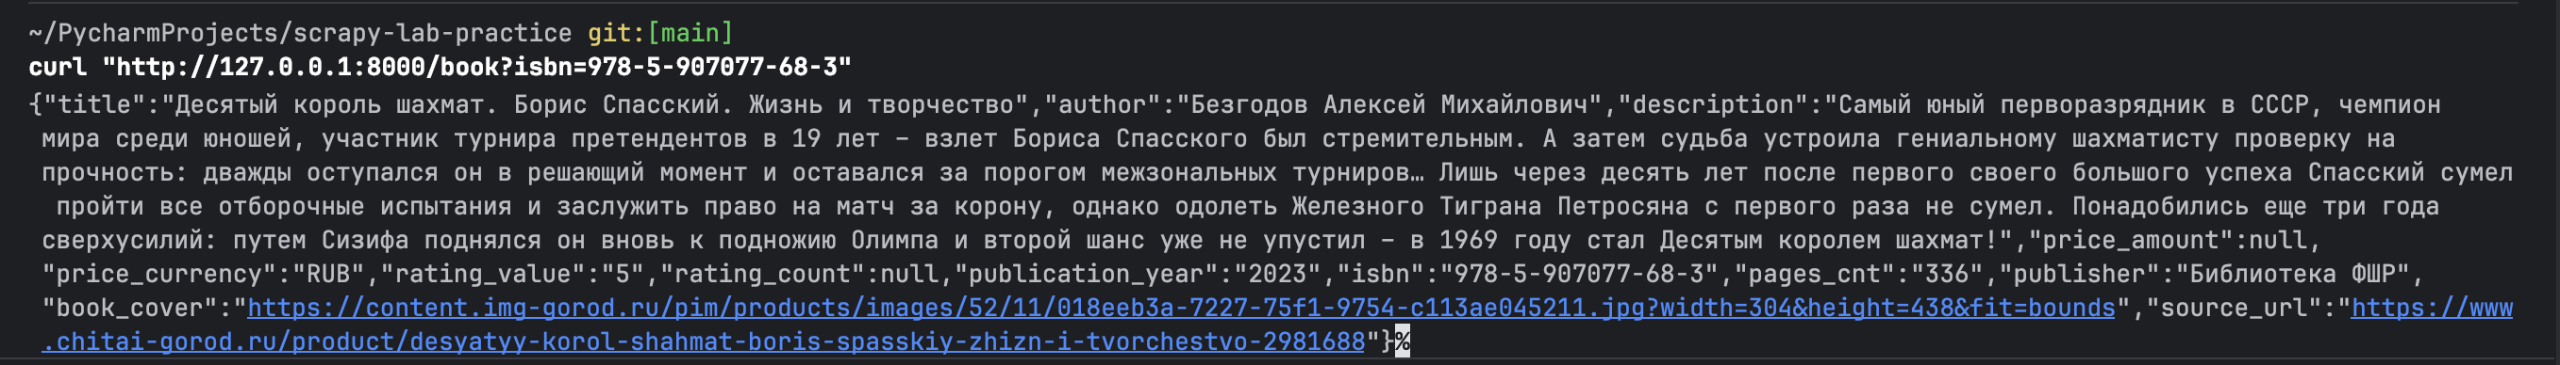
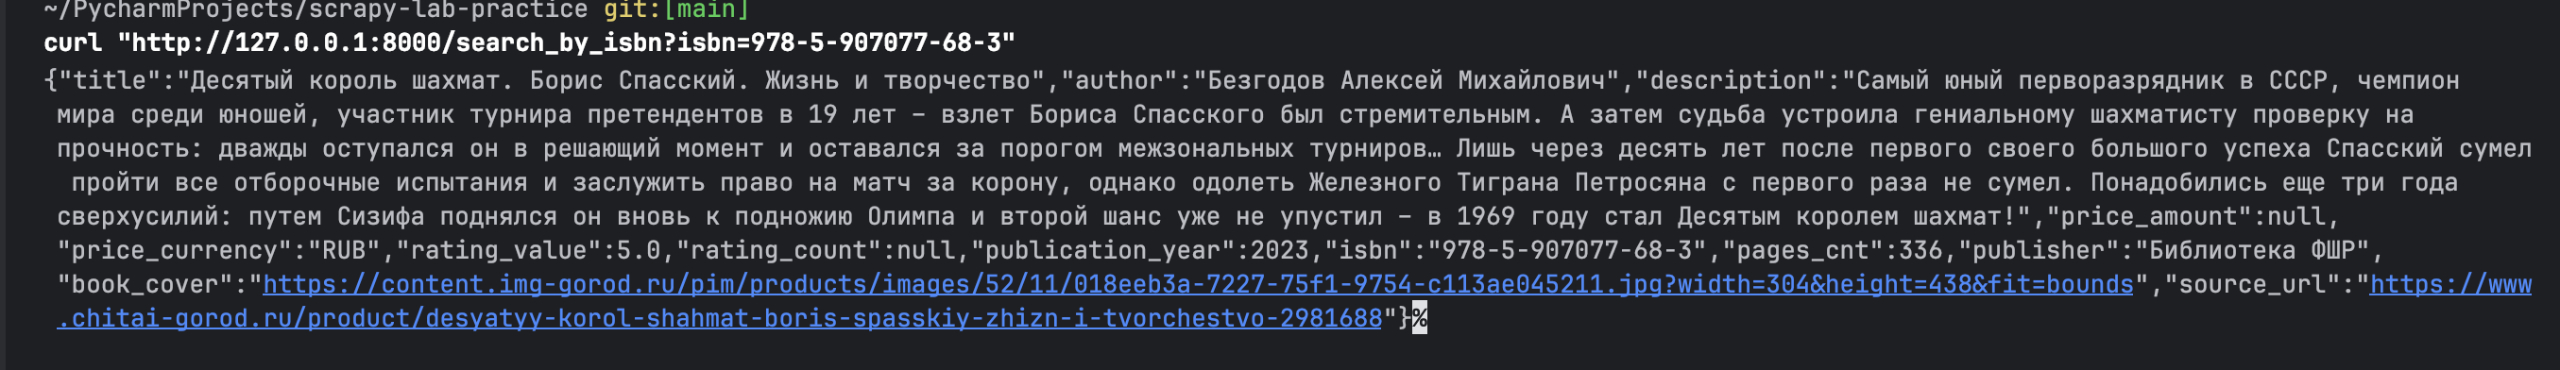
changed fastapi file

diff --git a/second_lab/fast_api/fastapi_service_books.py b/second_lab/fast_api/fastapi_service_books.py
@@ -1,0 +1,52 @@
+from http import HTTPStatus
+from os import getenv
+from typing import Annotated, Any, Mapping
+
+from fastapi import FastAPI, Depends, HTTPException
+from pydantic import BaseModel, Field
+import pymongo
+from pymongo.asynchronous.collection import AsyncCollection
+
+
+class Book(BaseModel):
+    title: str
+    author: str | None = Field(default=None)
+    description: str | None = Field(default=None)
+    price_amount: int | None = Field(default=None)
+    price_currency: str | None = Field(default=None)
+    rating_value: float | None = Field(default=None)
+    rating_count: int | None = Field(default=None)
+    publication_year: int
+    isbn: str
+    pages_cnt: int | None = Field(default=None)
+    publisher: str | None = Field(default=None)
+    book_cover: str | None = Field(default=None)
+    source_url: str
+
+
+app = FastAPI(title="Book ISBN Search Service", description="Study Case Example")
+
+
+async def get_mongo_db() -> AsyncCollection[Mapping[str, Any] | Any]:
+    mongo_user = getenv("MONGO_USER", "root")
+    mongo_password = getenv("MONGO_PASSWORD", "password")
+    mongo_port = getenv("MONGO_PORT", 27017)
+    mongo_uri = f"mongodb://{mongo_user}:{mongo_password}@localhost:{mongo_port}/"
+    mongo_db = getenv("MONGO_DATABASE", "books_db")
+    mongo_db_collection = getenv("MONGO_DATABASE_COLLECTION", "books")
+    client = pymongo.AsyncMongoClient(mongo_uri)
+    return client[mongo_db][mongo_db_collection]
+
+
+@app.get("/search_by_isbn", tags=["ISBN Searcher"])
+async def get_book_by_isbn(
+    mongo_db: Annotated[AsyncCollection[Mapping[str, Any] | Any], Depends(get_mongo_db)],
+    isbn: str,
+) -> Book:
+    result = await mongo_db.find_one({"isbn": isbn})
+    if not result:
+        raise HTTPException(
+            status_code=HTTPStatus.NOT_FOUND,
+            detail="Can't find book with this ISBN",
+        )
+    return Book(**result)
